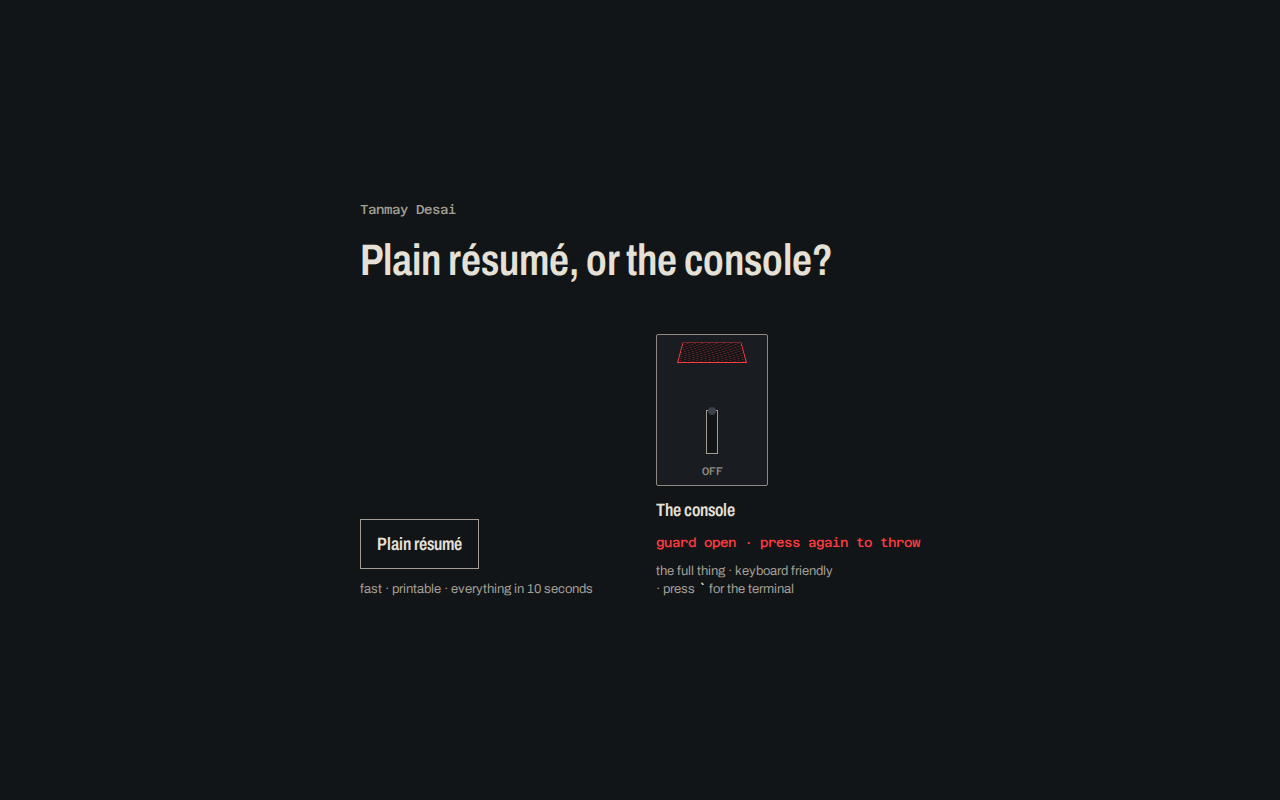
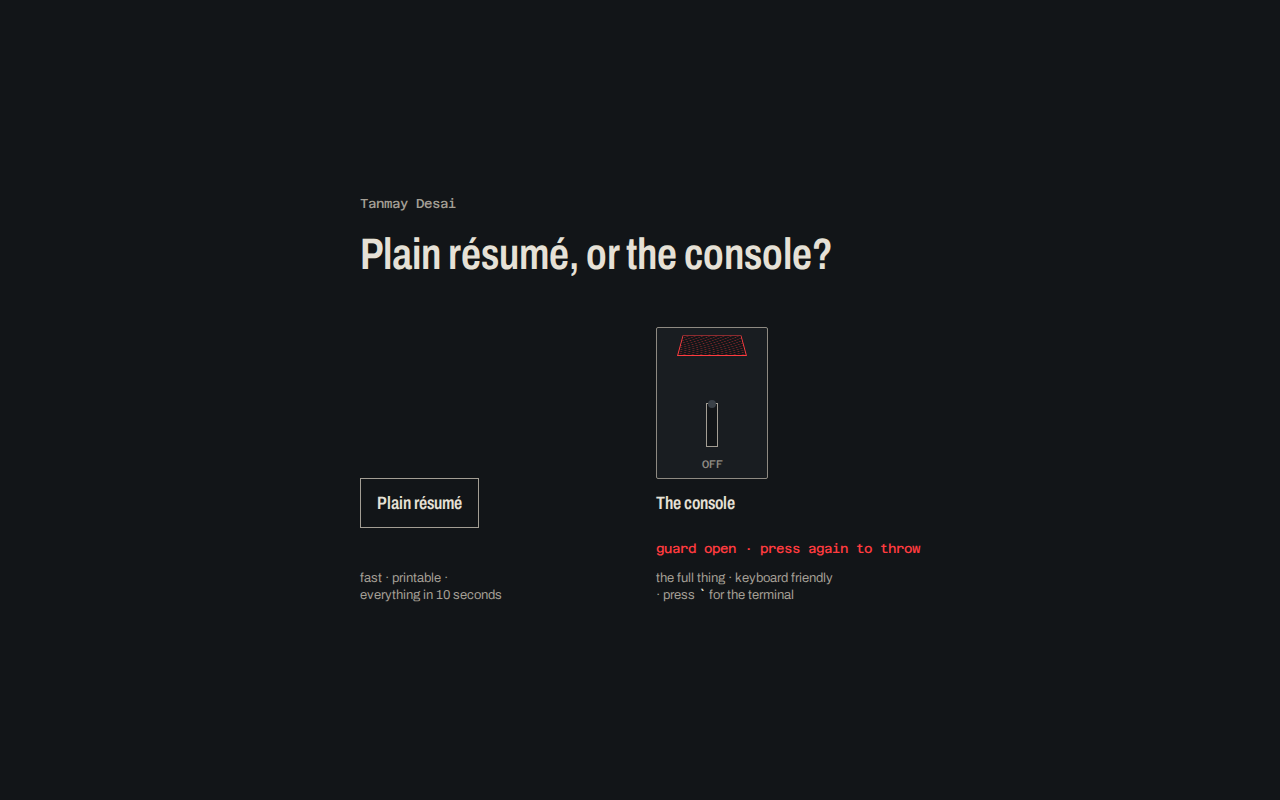
entry r2: print URLs on /blue, throw paints before nav, shared baselines, a11y nit, AlgoLend one-liner
Claude-Session: https://claude.ai/code/session_0193ygcoPb5YWaECF4pbgRC8

diff --git a/blue/index.html b/blue/index.html
@@ -7,6 +7,7 @@
 <meta name="description" content="Tanmay Desai, software engineer in Boston. Experience, projects, skills and education on one plain page.">
 <!-- Boring on purpose (DESIGN.md §7): no tokens.css, no web fonts, no JS. Projects copied by hand from shared/projects.json. -->
 <style>
+:root { color-scheme: light; }
 html { background: #FFFFFF; color: #111111; }
 body {
   margin: 0 auto;
@@ -31,6 +32,11 @@ footer { margin-top: 40px; padding-top: 8px; border-top: 1px solid #CCCCCC; colo
   footer { display: none; }
   a { color: #111111; text-decoration: none; }
   .contact a[href^="http"]::after { content: " (" attr(href) ")"; font-size: 9pt; }
+  .pdf { display: none; }
+  .links { font-size: 0; }
+  .links a { display: block; }
+  .links a::after { content: attr(href); font-size: 9pt; }
+  .links a[href^="/"]::after { content: "tanmaydesai.xyz" attr(href); }
   h2, h3 { break-after: avoid; }
   li, .project { break-inside: avoid; }
 }
@@ -40,7 +46,7 @@ footer { margin-top: 40px; padding-top: 8px; border-top: 1px solid #CCCCCC; colo
 <header>
   <h1>Tanmay Desai</h1>
   <p class="contact">Boston, MA · <a href="mailto:t.desai240305@gmail.com">t.desai240305@gmail.com</a> · <a href="https://www.linkedin.com/in/tanmaydesai2126/">LinkedIn</a> · <a href="https://github.com/TADebugs">GitHub</a></p>
-  <p><a href="/resume.pdf">Résumé (PDF)</a></p>
+  <p class="pdf"><a href="/resume.pdf">Résumé (PDF)</a></p>
 </header>
 
 <main>
@@ -74,31 +80,31 @@ footer { margin-top: 40px; padding-top: 8px; border-top: 1px solid #CCCCCC; colo
   <div class="project">
     <h3>God's Eye</h3>
     <p>AI-driven Unity dungeon crawler, dual-persona vision AI</p>
-    <p><a href="/gods-eye">Open</a> · <a href="https://github.com/TADebugs/Gods_Eye">Source</a></p>
+    <p class="links"><a href="/gods-eye">Open</a> · <a href="https://github.com/TADebugs/Gods_Eye">Source</a></p>
   </div>
 
   <div class="project">
     <h3>AlgoLend AI</h3>
-    <p>DeFi lending on Algorand testnet with three AI agent modules: Risk Analyzer is wired in, Market Oracle runs on simulated market data, Yield Optimizer is not wired yet.</p>
-    <p><a href="/algolend">Open</a> · <a href="https://github.com/TADebugs/ALGOLEND_AI">Source</a></p>
+    <p>DeFi lending on Algorand testnet with three AI agent modules, as a seeded demo</p>
+    <p class="links"><a href="/algolend">Open</a> · <a href="https://github.com/TADebugs/ALGOLEND_AI">Source</a></p>
   </div>
 
   <div class="project">
     <h3>TRINITY</h3>
     <p>Desktop assistant with three personalities (ARIA / ECHO / NEXUS). Desktop app in progress.</p>
-    <p><a href="/trinity">Open</a> · <a href="https://github.com/TADebugs/TRINITY">Source</a></p>
+    <p class="links"><a href="/trinity">Open</a> · <a href="https://github.com/TADebugs/TRINITY">Source</a></p>
   </div>
 
   <div class="project">
     <h3>Sweet-Bite</h3>
     <p>Restaurant site for a fictional BBQ spot; menu, hours and a reservation form in plain HTML/CSS/JS.</p>
-    <p><a href="/sweet-bite">Open</a> · <a href="https://github.com/TADebugs/Sweet-Bite">Source</a></p>
+    <p class="links"><a href="/sweet-bite">Open</a> · <a href="https://github.com/TADebugs/Sweet-Bite">Source</a></p>
   </div>
 
   <div class="project">
     <h3>Production RAG system</h3>
     <p>Hybrid BM25 + vector retrieval with reranking, Langfuse observability, RAGAS-gated CI</p>
-    <p><a href="/rag">Open</a></p>
+    <p class="links"><a href="/rag">Open</a></p>
   </div>
 </section>
 

diff --git a/gate/gate.js b/gate/gate.js
@@ -14,12 +14,19 @@
 
   sw.addEventListener('click', function () {
     if (sw.getAttribute('aria-expanded') !== 'true') return setGuard(true);
+    if (sw.classList.contains('is-thrown')) return;
     sw.classList.add('is-thrown');
     state.textContent = 'switch thrown · loading the console';
     remember('red');
     try { sessionStorage.setItem('td.from-gate', '1'); } catch (e) {}
-    location.assign('/red');
+    // Let the throw paint, then go: lever transitionend or 300ms, whichever is first.
+    if (matchMedia('(prefers-reduced-motion: reduce)').matches) return go();
+    sw.querySelector('.lever').addEventListener('transitionend', go, { once: true });
+    setTimeout(go, 300);
   });
+
+  var gone = false;
+  function go() { if (!gone) { gone = true; location.assign('/red'); } }
 
   sw.addEventListener('keydown', function (e) {
     if (e.key === 'Escape' && sw.getAttribute('aria-expanded') === 'true') setGuard(false);
@@ -28,6 +35,6 @@
 
   // Back from /red via bfcache: reset to the closed state.
   addEventListener('pageshow', function (e) {
-    if (e.persisted) { sw.classList.remove('is-thrown'); setGuard(false); }
+    if (e.persisted) { gone = false; sw.classList.remove('is-thrown'); setGuard(false); }
   });
 })();

diff --git a/gate/gate.css b/gate/gate.css
@@ -26,16 +26,21 @@ p { margin: 0; }
   text-wrap: balance;
 }
 
+/* Subgrid rows [control][state][legend]: names share a baseline, legends share a row. */
 .choices {
   display: grid;
   grid-template-columns: 1fr 1fr;
-  gap: var(--s-6);
-  align-items: end;
+  column-gap: var(--s-6);
+  row-gap: var(--s-3);
 }
-.choice { display: grid; gap: var(--s-3); justify-items: start; }
+.choice { display: grid; grid-row: span 3; grid-template-rows: subgrid; justify-items: start; }
+.plain, .switch { grid-row: 1; align-self: last baseline; }
+.state { grid-row: 2; }
+.choice .legend { grid-row: 3; }
 .legend {
   font-size: var(--fs-small);
   color: var(--legend-dim);
+  max-inline-size: 26ch;
   text-wrap: balance;
 }
 kbd { font: 500 var(--fs-small) var(--font-mono); color: var(--legend); }
@@ -145,6 +150,6 @@ kbd { font: 500 var(--fs-small) var(--font-mono); color: var(--legend); }
 .switch[aria-expanded="true"] + .state { color: var(--fault); }
 
 @media (max-width: 479px) {
-  .choices { grid-template-columns: 1fr; gap: var(--s-7); }
-  .red { order: 2; }
+  .choices { grid-template-columns: 1fr; }
+  .red { margin-block-start: var(--s-6); }
 }

diff --git a/index.html b/index.html
@@ -38,7 +38,7 @@
 
     <div class="choice red">
       <noscript><a class="plain" href="/red">The console</a></noscript>
-      <button class="switch" type="button" id="switch" aria-expanded="false" aria-describedby="switch-state">
+      <button class="switch" type="button" id="switch" aria-expanded="false">
         <span class="housing" aria-hidden="true">
           <span class="mark on">ON</span>
           <span class="lever"></span>

diff --git a/.agents/handoff/entry.md b/.agents/handoff/entry.md
@@ -15,3 +15,16 @@ notes for lead:
 - Per lead (DESIGN.md §5.2/§5.3 amendments): AlgoLend now names each agent module with its true wiring state (no "3 AI agents" claim); TRINITY says "Desktop app in progress", with no wake-word or voice claim. Both differ from projects.json oneLiners on purpose.
 - Google Fonts fail TLS in the sandbox proxy; screenshots used ignoreHTTPSErrors to render the real fonts.
 screenshots: .agents/critique/shots/entry-r1-*.png (gate-desktop, gate-guard-open, gate-focus-red, gate-reduced-open, gate-375, blue-desktop, blue-375, blue-print)
+
+## entry — round 2
+branch: agent/entry
+route: / (gate), /blue
+changes since last critique (.agents/critique/entry-r1.md):
+- B1 /blue print: `.pdf` line hidden in print; project link lines are `.links` → print sets text to 0 and `::after` prints `tanmaydesai.xyz/<route>` for internal and the full URL for external, 9pt, one per line. `:root { color-scheme: light }` added.
+- G1 throw paints: `gate.js` navigates on the lever's `transitionend` or a 300ms fallback, guarded by a `gone` flag (reset on bfcache restore); reduced motion navigates immediately. Measured: commit to /red ~200ms after the click, lever caught mid-throw in `entry-r2-gate-thrown.png`.
+- N1 shared baseline: `.choices` is a 3-row grid, each `.choice` a subgrid; `.plain` and `.switch` use `align-self: last baseline` in row 1, state row 2, legends row 3. At 1280 both legends end at the same y; the two names share a baseline.
+- N2 `.legend { max-inline-size: 26ch }` (with `text-wrap: balance`).
+- A1 `aria-describedby` removed from `#switch`; the live region alone announces state.
+- Lead: AlgoLend line on /blue now matches projects.json word for word: "DeFi lending on Algorand testnet with three AI agent modules, as a seeded demo".
+tested: full r1 suite re-run (keyboard, Esc/blur, remembered choice, ?reconsider, reduced motion, 375px, links), all pass; only local misses are python's /blue→/blue/ redirect and /resume.pdf (Vercel rewrite).
+screenshots: .agents/critique/shots/entry-r2-*.png (gate-desktop, gate-thrown, gate-375, blue-print)

diff --git a/.agents/status/entry.md b/.agents/status/entry.md
@@ -3,4 +3,4 @@
 status: in critique
 branch: agent/entry
 updated: 2026-10-04
-note: round 1 handed off (.agents/handoff/entry.md). Gate at / + /blue.
+note: round 2 handed off (.agents/handoff/entry.md), PR #4.
